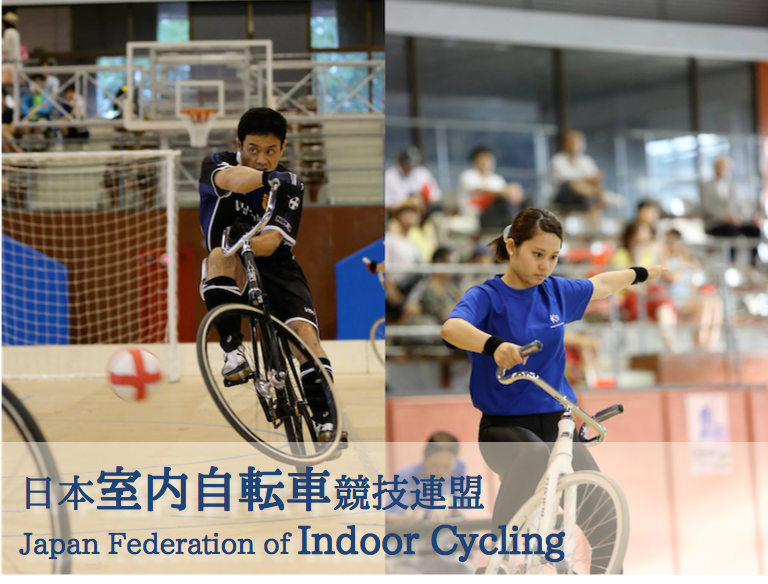
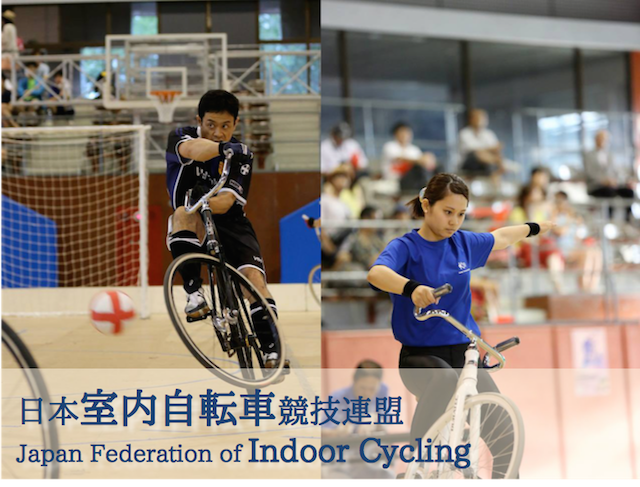
add mediaquery for topimg.

Changed region(s): [[0.0312, 0.8008, 0.5312, 0.9548], [0.625, 0.8932, 0.75, 0.9548], [0.5625, 0.8008, 0.625, 0.924]]

diff --git a/jfic/index.html b/jfic/index.html
@@ -14,7 +14,13 @@
 
         <link rel="stylesheet" href="css/normalize.css">
         <link rel="stylesheet" href="css/main.css">
-        <link rel="stylesheet" href="css/top-img.css">
+
+        <!-- デバイスサイズ640px以下 -->
+        <link rel="stylesheet" type="text/css" media="only screen and (max-device-width:640px)" href="css/top-img_mobile.css">
+ 
+        <!-- デバイスサイズ641px以上 -->
+        <link rel="stylesheet" type="text/css" media="screen and (min-device-width:641px)" href="css/top-img.css">
+
         <script async src="js/vendor/modernizr-2.6.2.min.js"></script>
 
     </head>

diff --git a/jfic/css/top-img_mobile.css b/jfic/css/top-img_mobile.css
@@ -1,0 +1,8 @@
+.top-custom-img {
+    width: 100%;
+    height: 0;
+    padding-top:76.04%;/* (584 / 768) * 100 */
+    background-image:url("../img/top/topimg_mobile_withJFIC_640.png");
+    background-repeat:no-repeat;
+    background-size: contain;
+}
